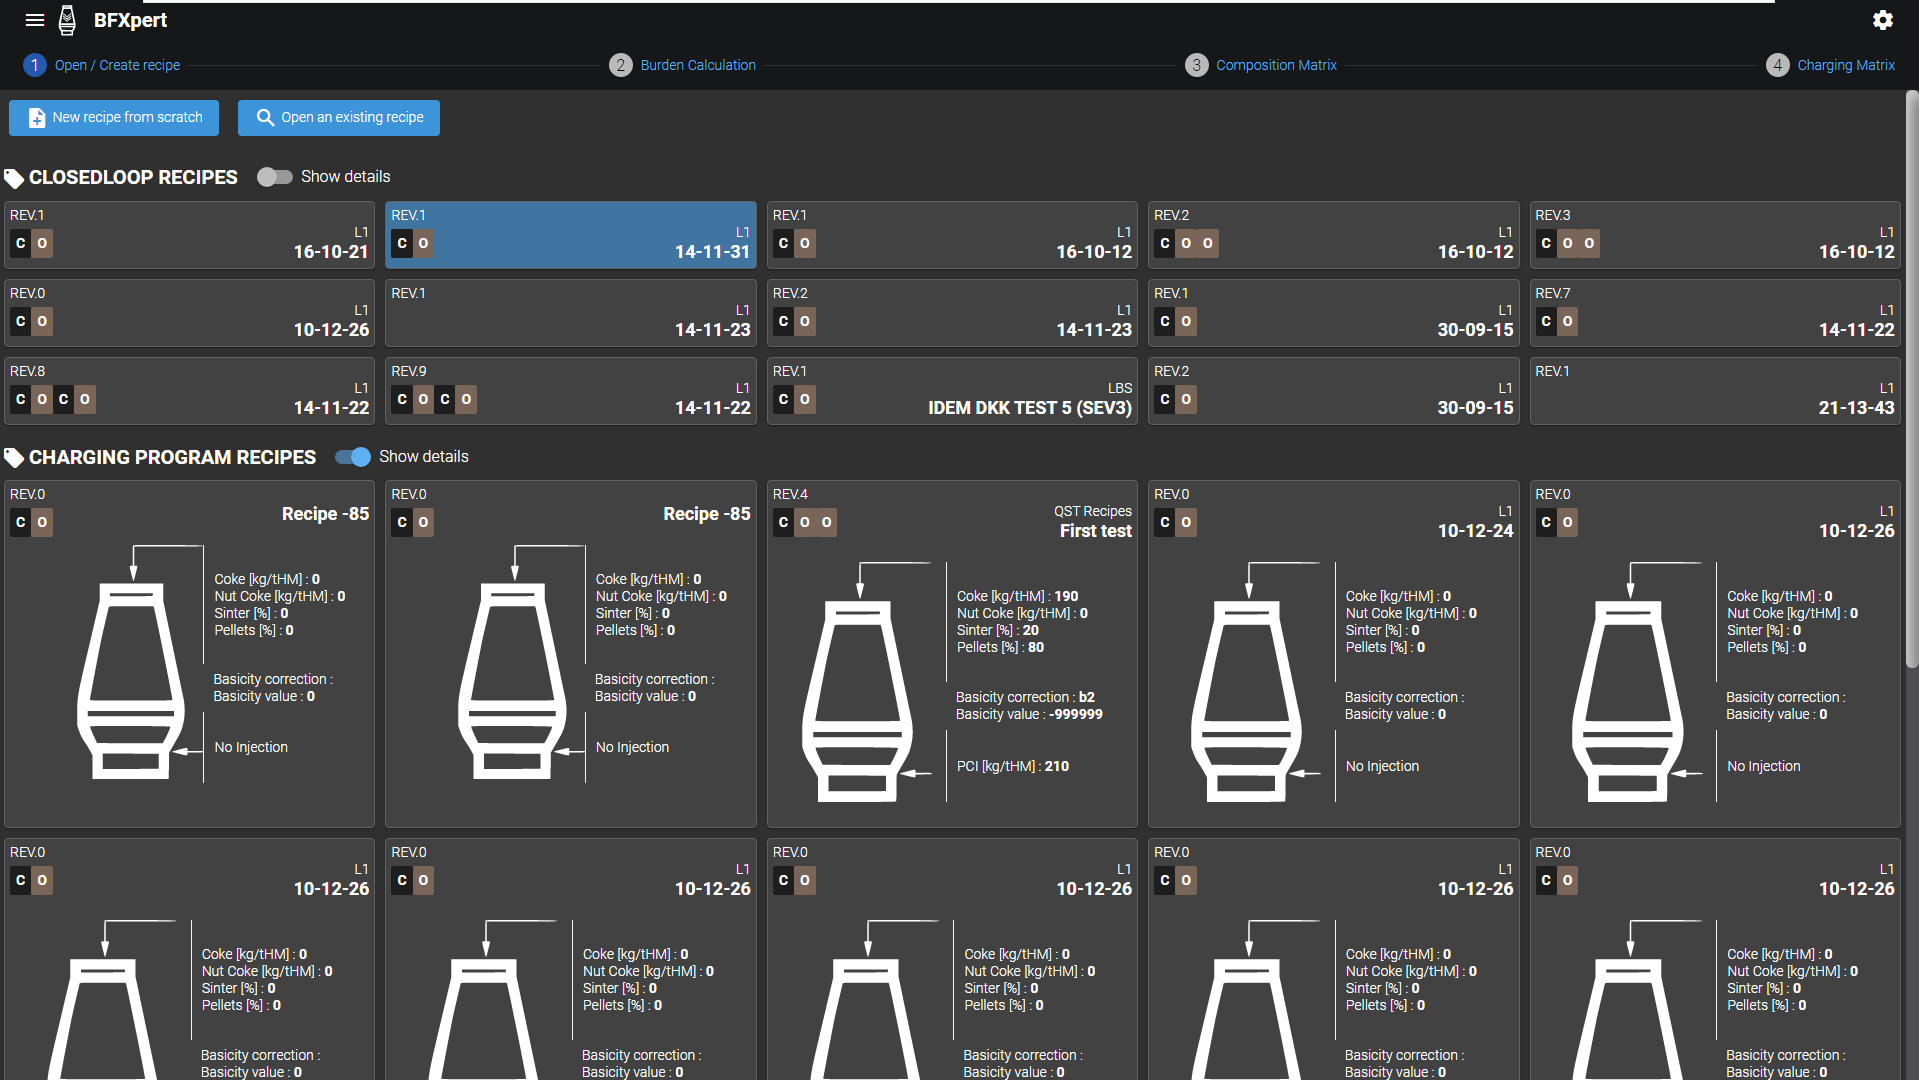
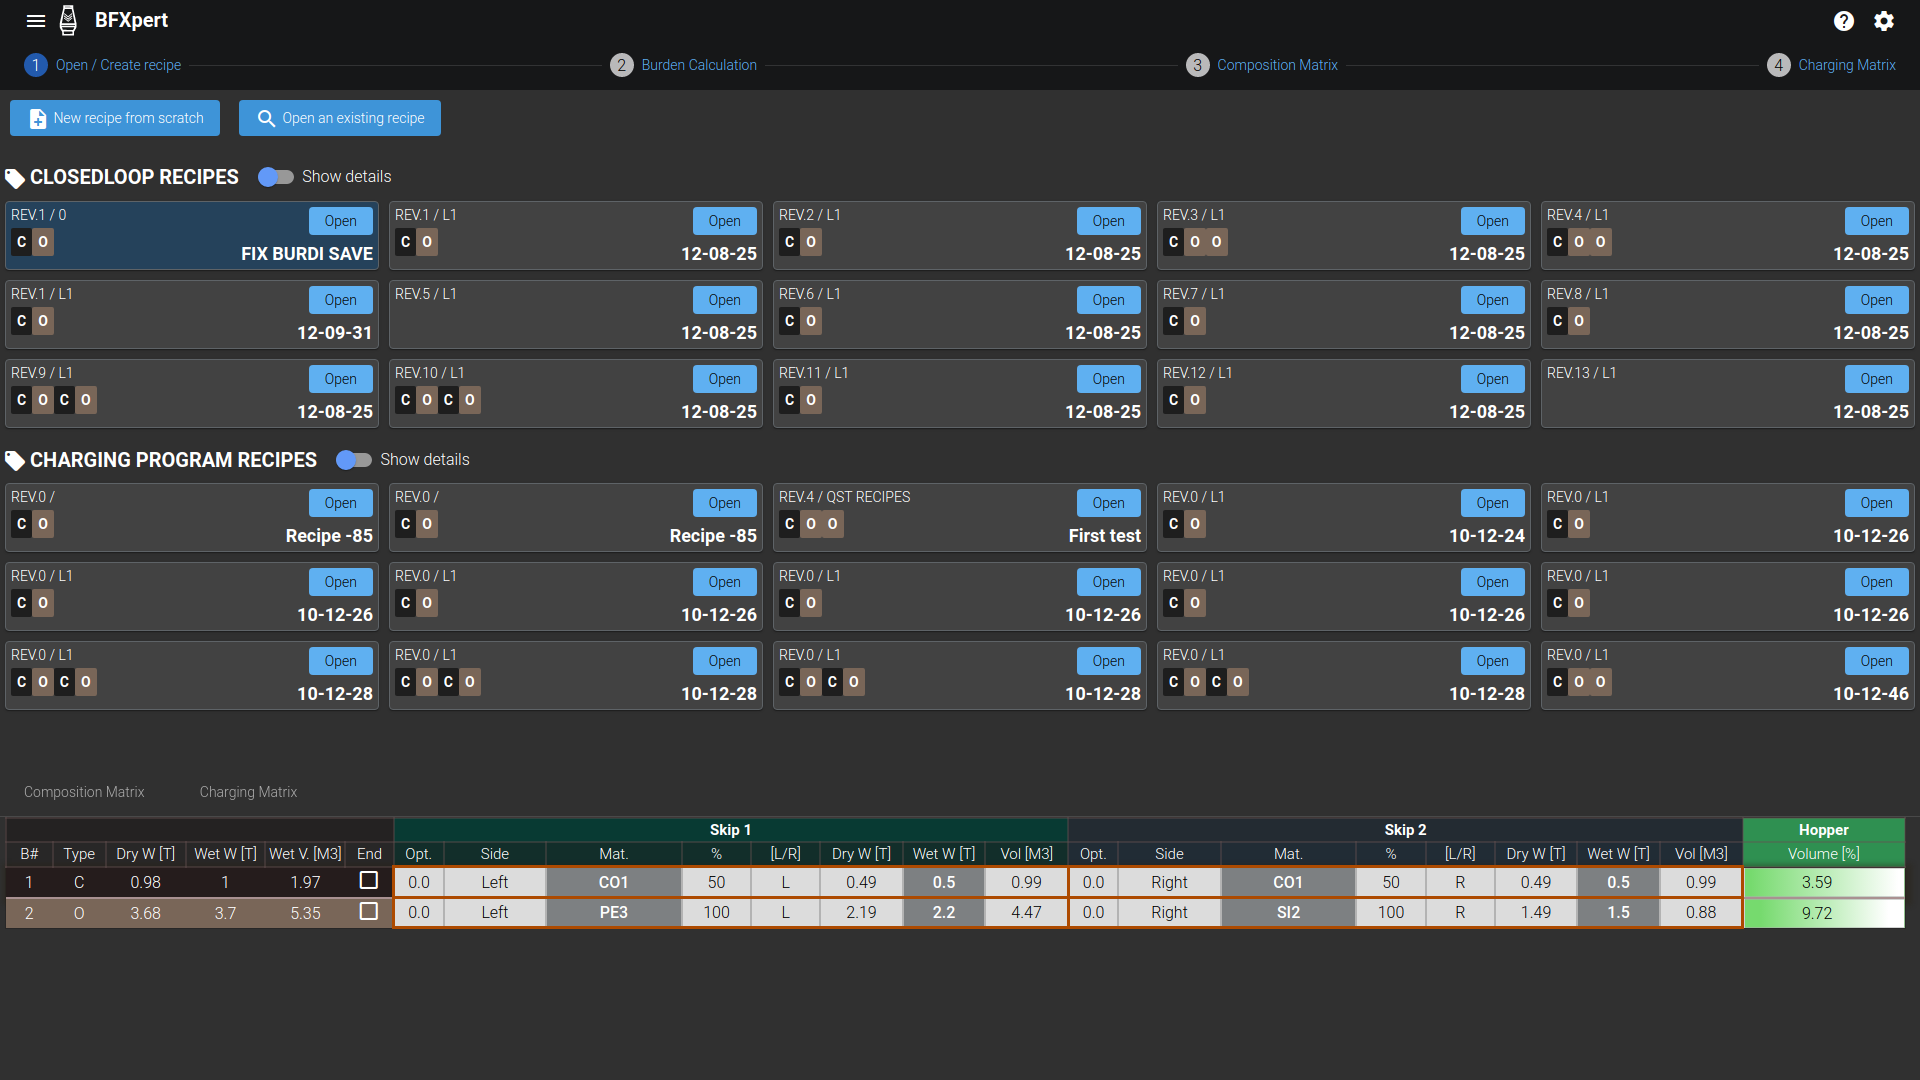
udpates

diff --git a/docs/burdi/03-burden-calculation.md b/docs/burdi/03-burden-calculation.md
@@ -25,6 +25,8 @@ The first step of the burden calculation is to define all targets & set point:
 * Mode Weight (optimal mode based on customer workflow)
   * Wet or Dry
 * Total coke rate [kg/tHM]
+  * The operator ha to define the value for the recipe
+  * The system will check if the recipe composition reach the defined target
 
 **Slag Constraints Basicity**
   * Activate or not the basicity correction
@@ -73,12 +75,11 @@ The operator has to define the recipe composition:
   * Defining the corresponding rates of each material (Burdening, reducing & lost Burden)
   * The injection rates for each material
 
+### Burdening Materials
 
-###Burdening Materials
-
-The operator has to define the list of "Burdening Materials" (Ore/Pellets/Sinter/Basicity regulator (e.g. Quartzite, etc.)) & the individual rates / or percentage that the operator wants to add to the recipe
-
-
+The operator has to define the list of **Burdening Materials** 
+* (Ore/Pellets/Sinter/Basicity regulator [e.g. Quartzite, etc.]) 
+* The individual rates / or percentage that the operator wants to add to the recipe
 
 ![selectMaterials](/img/burdi/02-en-selectMaterials.gif)
 
@@ -87,19 +88,75 @@ Change order of raw materials
 
 ![changeOrder](/img/burdi/02-en-changeOrder.gif)
 
+### Analysis
+
+The operator has the possibility to display all analyses via a toggle button, and/or manually update them (if required*).
+![analysis](/img/burdi/02-en-analysis.gif)
+
+### Basicity correction
+
+The operator has the possibility to activate:
+* Basicity correction on the left panel
+* Define on which correction the recipe is going to be calculated
+  * B2
+  * B3
+  * B4
+* Define the basicity correction ( B+ / B- / No correction) on the Burdening materials
+
+![basicityCorrection](/img/burdi/02-basicityCorrection.gif)
+    
+### Features
+The operator can easily reply a material by another one
+![replaceMaterial](/img/burdi/02-en-replaceMaterial.gif)
+
+
+## Reducing Materials
+The Reducing materials are divided in 2 species:
+* Reducing Agent
+* Reducing Agent at tuyere level (injection)
+  The operators have to define the rate for each reducing material.
+  * The metric units are: (e.g. metric units)
+    * kg/tHM (for Reducing Agent & Reducing Agent at tuyere level)
+    * g/Nm3 (only for Reducing Agent at tuyere level).
+  
+  * The imperial units are:
+    * kg/tHM (for Reducing Agent & Reducing Agent at tuyere level)
+    * g/Nm3 (only for Reducing Agent at tuyere level)
+
+
+## LOST BURDEN
+The Lost Burden are the dust & sludge generated during the process.
+The lost burden has a small impact on the overall process this is why this section the information are hidden and selected by default.
+
+The operator has the possibility to :
+* Adjust the Rate 
+* Manually update the analyses if required
+  ![lostBurden](/img/burdi/02-en-lostBurden.gif)
 
 
 ---
 ## The burden calculation outputs
 
 The bottom display the result of the Burden Calculation for the output production:
-• Hot Metal
-• Slag 
+* Hot Metal
+* Slag 
 
-![burdenCalculationOutputs.](/img/burdi/02-en-burdenCalculationOutputs.png)
+![burdenCalculationOutputs](/img/burdi/02-en-burdenCalculationOutputs.png)
 
 **You have to keep in mind that all concept of the "Burden Calculation" is calculating the mass balance for :**
 * 1 t/tHM
   * **This is not true if weight mode is activated**
 
-   
+## Burden Calculation
+
+When the operator has finalized the definition of the recipe, the next step is to launch a "Burden Calculation" mass balance by sending all data to the Burden Calculation Model.
+
+![burdenCalculationEngine](/img/burdi/02-en-burdenCalculationEngine.png)
+
+* Data are sent to the "Burden Calculation Model"
+* The model is going to do make burden check in order to generate errors or warnings. 
+* Every error has to be solved in order to redo the burden calculation; warning is just for your information.
+  
+  | ERROR    |     WARNING   |
+  |----------|:-------------:|
+  | col 1 is |  left-aligned |

diff --git a/docs/burdi/02-open-create-recipe.md b/docs/burdi/02-open-create-recipe.md
@@ -15,12 +15,17 @@ It displays :
 * The charging & the composition Matrix (at the bottom part)
 ---
 ## Features available :
+---
 ### 1. Select a recipe to display composition & Chagring Matrix
 
 The operator can select a recipe on the recipe buffer and see the charging or composition matrix of it
-* Charging matrix & composition matrix are not editable at this step of the process.
+* Charging matrix 
+![chargingMatrix](/img/burdi/01-en-chargingMatrix.png)
 
-PICTURE TO ADD
+* Composition matrix
+![compositionMatrix](/img/burdi/01-en-compositionMatrix.png)
+(are not editable at this step of the process)
+---
 ### 2. Display details on a specific recipe
 In the entry view, the operator can activate the show detail toggle button.
 
